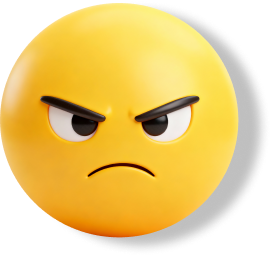
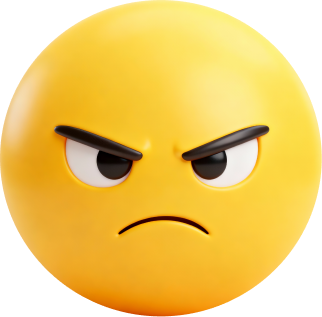
update fitur Emote

diff --git a/src/Main/TodoApp.jsx b/src/Main/TodoApp.jsx
@@ -1,7 +1,12 @@
 import { useImmer, useImmerReducer } from "use-immer";
 import Form from "./Form";
 import List from "./List";
-import { TodoContext, TodoDispatchContext } from "./TodoContext";
+import { EmoteContext, TodoContext, TodoDispatchContext } from "./TodoContext";
+import BGMain from "../Components/BGMain";
+import Title from "../Components/Title";
+import TvFrame from "../Components/TvFrame";
+import ScreenTV from "../Components/ScreenTv";
+import Emote from "../Components/Emote";
 
 
 
@@ -25,15 +30,15 @@ function todoReducer(draft, action) {
                 draft.inputValue = '';
             }
             break
-        case'CHANGE_TODO':
+        case 'CHANGE_TODO':
             const index = draft.todos.findIndex(t => t.id === action.todo.id)
-            if(index !== -1){
+            if (index !== -1) {
                 draft.todos[index].completed = action.todo.completed;
             }
             break
     }
 }
-export default function TodoApp({ children }) {
+export default function TodoApp() {
 
 
     const [state, dispatch] = useImmerReducer(todoReducer, initialState)
@@ -41,65 +46,29 @@ export default function TodoApp({ children }) {
     return (
         <TodoContext.Provider value={state}>
             <TodoDispatchContext.Provider value={dispatch}>
-                <div className="relative w-screen h-screen bg-[#AFF967] overflow-hidden flex justify-center items-center">
-                    <div className="relative w-[1300px] h-screen flex justify-center items-center shrink-0">
-                        <img
-                            src="/IMG_TODO/IMG-Man/BG-Man.png"
-                            alt="Background Grid"
-                            className="absolute inset-0 w-full h-full object-fill z-0"
-                        />
+               
+                <BGMain>
+                    <EmoteContext.Provider value={{Emote, dispatch}}>
+                        <Emote />
+                    
+                    <div className="absolute  bottom-[-20px] z-10 w-[1038px] h-[982px] flex items-center justify-center origin-bottom transform scale-[1.0]">
 
-                        {/* TV RAKSASA: Balik ke ukuran fix 1335px biar gak kekecilan */}
-                        <div className="absolute  bottom-[-20px] z-10 w-[1038px] h-[982px] flex items-center justify-center origin-bottom transform scale-[1.0]">
-
-                            {/* //* 1. LAYAR PUTIH (Kecil & Masuk Frame)  */}
-
-                            <div className="w-[65%] h-[65%] bg-white rounded-[55px] p-10 flex flex-col 
-                    shadow-inner mt-[-10%] z-0 overflow-hidden outline-[90px] outline-white
-                    ">
-                                <div className="flex justify-between border-b-8 border-red-900/10 pb-4 mb-6 px-10 font-['Pixelify_Sans']">
-                                    <span className="text-[40px] font-bold text-red-950 uppercase">task</span>
-                                    <span className="text-[45px] font-bold text-red-950 uppercase">status</span>
-                                </div>
-
-                                <div className="flex-1 overflow-y-auto space-y-4 px-2 custom-scrollbar">
-                                    <List />
-
-                                </div>
-                            </div>
-
-                            {/* 2. FRAME TV (Ukuran 1300-an px sesuai aset asli) */}
-                            <img
-                                src="/IMG_TODO/IMG-Man/TvMan.png"
-                                alt="TV Frame"
-                                className="absolute inset-0 w-full h-full object-contain z-10 pointer-events-none"
-                            />
-
-                            {/* 3. JUDUL: Nempel di atas jidat TV 1300px lo */}
-                            <h1
-                                style={{ WebkitTextStroke: "10px #BD202E", paintOrder: "stroke fill", filter: "drop-shadow(8px 8px 0px rgba(0,0,0,2.1))" }}
-                                className="absolute top-[1%] mt-[-60px] left-1/2 -translate-x-1/2 !text-[120px]
-                        text-white font-['Pixelify_Sans'] italic whitespace-nowrap z-50 leading-tight "
-                            >
-                                Todolist
-                            </h1>
-
-                            <div className="absolute inset-0 z-30 pointer-events-none">
-                               
-
-                                    <Form />
-                                
-                            </div>
+                        <Title />
+                        
+                        {/* //* 1. LAYAR PUTIH (Kecil & Masuk Frame)  */}
+                        <ScreenTV>
+                            <List />
+                        </ScreenTV>
+                        {/* 2. FRAME TV (Ukuran 1300-an px sesuai aset asli) */}
+                        <TvFrame />
+                        <div className="absolute inset-0 z-30 pointer-events-none">
+                            <Form />
                         </div>
                     </div>
-
-                    <style >{`
-                .custom-scrollbar::-webkit-scrollbar { width: 6px; }
-                .custom-scrollbar::-webkit-scrollbar-track { background: transparent; }
-                .custom-scrollbar::-webkit-scrollbar-thumb { background: #fee2e2; border-radius: 10px; }
-            `}</style>
-                </div>
+                    </EmoteContext.Provider>
+                </BGMain>
             </TodoDispatchContext.Provider>
         </TodoContext.Provider>
     );
 }
+

diff --git a/src/Components/MoodButton.jsx b/src/Components/MoodButton.jsx
@@ -1,0 +1,67 @@
+import { useContext, useState } from "react"
+import { EmoteContext } from "../Main/TodoContext"
+import AngryEmote from "./Emote/AngryEmote"
+
+const ActionButton = ({ Image: img, label, onClick, isOpen, index }) => {
+    return (
+    <div className="absolute top-40 left-[-530px]">
+            <button
+                onClick={onClick}
+                aria-label={label}
+                className={`absolute right-160  flex items-center justify-center w-[100px] h-[100px] 
+                bg-sec-maroon rounded-full border-[8px] 
+                border-sec-maroon shadow-xl  flex-shrink-0 mr-[45px] 
+                 -translate-x-1/2 transition-all duration-300
+                ${isOpen ? "opacity-100" : "opacity-0 pointer-events-none"}`}
+                style={{
+                    bottom: isOpen ? `${(index + 1) * 140}px` : "0px",
+                    right: isOpen ? `${(index + 1) * 100}px` : "0px",
+                    
+                    transitionDelay: isOpen ? "${index * 50}ms" : "",
+                    transform: `scale(${0.9 + (index * 0.4)}) `
+                    
+                }}>
+                <div className="">
+                    <img src={img} />
+                </div>
+            </button>
+        </div>
+    )
+}
+export default function MoodButton() {
+    // const { isOpen, setIsopen } = useContext(EmoteContext)
+    const [isOpen, setIsopen] = useState(false)
+
+    const Actions = [
+        { id: "sad", Image: '/IMG_TODO/EMOTE/Sadd.png', label: "sad", onClick: () => { console.log('angry'); setIsopen(false) } },
+        { id: "happy", Image: '/IMG_TODO/EMOTE/Happy.png', label: "happy", onClick: () => { console.log('angry'); setIsopen(false) } },
+        { id: "angry", Image: '/IMG_TODO/EMOTE/Angry.png', label: "Angry", onClick: () => { console.log('angry'); setIsopen(false) } },
+    ]
+
+
+    return (
+        <div>
+            <div
+                className={` transition-all duration-500 ease-in-out `}
+            >
+                <div className="relative"> {/* Kasih sedikit padding biar gak mepet pas animasi */}
+                    {Actions.map((action, index) => (
+                        <ActionButton  key={action.id} index={index} isOpen={isOpen} {...action} />
+                    ))}
+                    <button
+                        onClick={() => setIsopen(!isOpen)}
+                        className=" absolute flex items-center justify-center w-[100px] h-[100px] 
+                        bg-sec-maroon rounded-full border-[6px] border-sec-maroon shadow-xl 
+                        flex-shrink-0 mr-[45px] right-[560px] top-[10px]">
+                        <h1 className="text-white text-5xl font-['Pixelify_Sans'] leading-none">
+                            M
+                        </h1>
+                    </button >
+                </div>
+            </div>
+
+
+        </div>
+
+    )
+}

diff --git a/src/Main/Form.jsx b/src/Main/Form.jsx
@@ -1,7 +1,9 @@
 import { useContext, useState } from "react";
 import AddButton from "../Components/AddButton";
 import { TodoContext, TodoDispatchContext } from "./TodoContext";
-import Mood from "../Components/Mood";
+import Mood from "../Components/MoodButton";
+import AngryEmote from "../Components/Emote/AngryEmote";
+import MoodButton from "../Components/MoodButton";
 
 
 export default function Form() {
@@ -14,12 +16,16 @@ export default function Form() {
     function handleClick(e) {
         e.preventDefault()
 
-        if (!text || text.trim() === '') return;
-
-        dispatch({
+        if (!text || text.trim() === ''){
+          return  //alert('Woi isi bangsat')
+        } else{
+              dispatch({
             type: 'ADD_TODO',
             payload: text
         });
+        }
+
+      
     } 
     return (
         <form onSubmit={handleClick}>
@@ -32,7 +38,8 @@ export default function Form() {
                 style={{ left: "830px", top: "795px" }}
                 className="absolute pointer-events-auto"
             >
-                <Mood />
+                <AngryEmote/>
+                <MoodButton />
             </div>
 
             {/* Input Tengah (Koordinat manual supaya pas di lubang TV) */}

diff --git a/src/Components/BGMain.jsx b/src/Components/BGMain.jsx
@@ -1,0 +1,20 @@
+export default function BGMain({children}) {
+    return (
+        <div className="relative w-screen h-screen bg-[#AFF967] overflow-hidden flex justify-center items-center">
+            <div className="relative w-[1300px] h-screen flex justify-center items-center shrink-0">
+                <img
+                    src="/IMG_TODO/IMG-Man/BG-Man.png"
+                    alt="Background Grid"
+                    className="absolute inset-0 w-full h-full object-fill z-0"
+                />
+                {children}
+
+            </div>
+            <style >{`
+                        .custom-scrollbar::-webkit-scrollbar { width: 6px; }
+                        .custom-scrollbar::-webkit-scrollbar-track { background: transparent; }
+                        .custom-scrollbar::-webkit-scrollbar-thumb { background: #fee2e2; border-radius: 10px; }
+                    `}</style>
+        </div>
+    )
+}

diff --git a/src/Components/ScreenTv.jsx b/src/Components/ScreenTv.jsx
@@ -1,0 +1,16 @@
+export default function ScreenTV({children}) {
+    return (
+        <div className="w-[65%] h-[65%] bg-white rounded-[55px] p-10 flex flex-col 
+                                                shadow-inner mt-[-10%] z-0 overflow-hidden outline-[90px] outline-white">
+            <div className="flex justify-between border-b-8 border-red-900/10 pb-4 mb-6 px-10 font-['Pixelify_Sans']">
+                <span className="text-[40px] font-bold text-red-950 uppercase">task</span>
+                <span className="text-[45px] font-bold text-red-950 uppercase">status</span>
+            </div>
+
+            <div className="flex-1 overflow-y-auto space-y-4 px-2 custom-scrollbar">
+            {/* LIST */}
+            {children}
+            </div>
+        </div>
+    )
+}

diff --git a/src/Components/Emote.jsx b/src/Components/Emote.jsx
@@ -1,0 +1,20 @@
+export default function Emote(){
+// Pisahkan style ke variabel biar JSX gak penuh
+    const strokeStyle = {
+        WebkitTextStroke: "10px #BD202E",
+        paintOrder: "stroke fill",
+        filter: "drop-shadow(8px 8px 0px rgba(0,0,0,1))" // Opacity max 1
+    };
+
+    return (
+        <h2
+            style={strokeStyle}
+            className="absolute top-[10%] left-[-20px] z-50 mt-[140px] -translate-x-1/2 
+                        font-['Pixelify_Sans'] text-[44px] italic leading-tight 
+                        text-white whitespace-nowrap"
+        >
+            My Mood:
+            {/* {Emote||""} */}
+        </h2>
+    );
+}

diff --git a/src/Components/Emote/HappyEmote.jsx b/src/Components/Emote/HappyEmote.jsx
@@ -1,0 +1,13 @@
+export default function HappyEmote(){
+    return(
+        <button 
+        onClick={null} 
+        className=" absolute flex items-center justify-center w-[100px] h-[100px] 
+        bg-sec-maroon rounded-full border-[6px] border-sec-maroon shadow-xl 
+        flex-shrink-0 mr-[45px] right-[560px] top-[10px]">
+            <div className="text-white text-5xl font-['Pixelify_Sans'] leading-none">
+                <img src="/public/IMG_TODO/EMOTE/Happy.png.png" alt="" />
+            </div>
+        </button>
+    )
+}

diff --git a/src/Components/Emote/SadEmote.jsx b/src/Components/Emote/SadEmote.jsx
@@ -1,0 +1,15 @@
+export default function SadEmote(){
+    return(
+
+        <button 
+        onClick={null} 
+        className=" absolute flex items-center justify-center w-[100px] h-[100px] 
+        bg-sec-maroon rounded-full border-[6px] border-sec-maroon shadow-xl 
+        flex-shrink-0 mr-[45px] right-[560px] top-[10px]">
+            <div className="text-white text-5xl font-['Pixelify_Sans'] leading-none">
+                <img src="/public/IMG_TODO/EMOTE/" alt="" />
+            </div>
+        </button>
+        
+    )
+}

diff --git a/src/Components/Emote/AngryEmote.jsx b/src/Components/Emote/AngryEmote.jsx
@@ -1,0 +1,13 @@
+export default function AngryEmote(){
+    return(
+        <button 
+        onClick={null} 
+        className=" absolute flex items-center justify-center w-[100px] h-[100px] 
+        bg-sec-maroon rounded-full border-[6px] border-sec-maroon shadow-xl 
+        flex-shrink-0 mr-[45px] right-[560px] top-[10px]">
+            <div className="text-white text-5xl font-['Pixelify_Sans'] leading-none">
+                <img src="/IMG_TODO/EMOTE/Angry.png.png" alt="" />
+            </div>
+        </button>
+    )
+}

diff --git a/src/Components/Title.jsx b/src/Components/Title.jsx
@@ -1,0 +1,11 @@
+export default function Title() {
+    return (
+        <h1
+            style={{ WebkitTextStroke: "10px #BD202E", paintOrder: "stroke fill", filter: "drop-shadow(8px 8px 0px rgba(0,0,0,2.1))" }}
+            className="absolute top-[1%] mt-[-60px] left-1/2 -translate-x-1/2 !text-[120px]
+                        text-white font-['Pixelify_Sans'] italic whitespace-nowrap z-50 leading-tight "
+        >
+            Todolist
+        </h1>
+    )
+}

diff --git a/src/Components/TvFrame.jsx b/src/Components/TvFrame.jsx
@@ -1,0 +1,9 @@
+export default function TvFrame() {
+    return (
+        <img
+            src="/IMG_TODO/IMG-Man/TvMan.png"
+            alt="TV Frame"
+            className="absolute inset-0 w-full h-full object-contain z-10 pointer-events-none"
+        />
+    )
+}

diff --git a/src/Main/TodoContext.jsx b/src/Main/TodoContext.jsx
@@ -2,3 +2,4 @@ import { createContext } from "react";
 
 export const TodoContext = createContext(null)
 export const TodoDispatchContext = createContext(null)
+export const EmoteContext = createContext(null)
